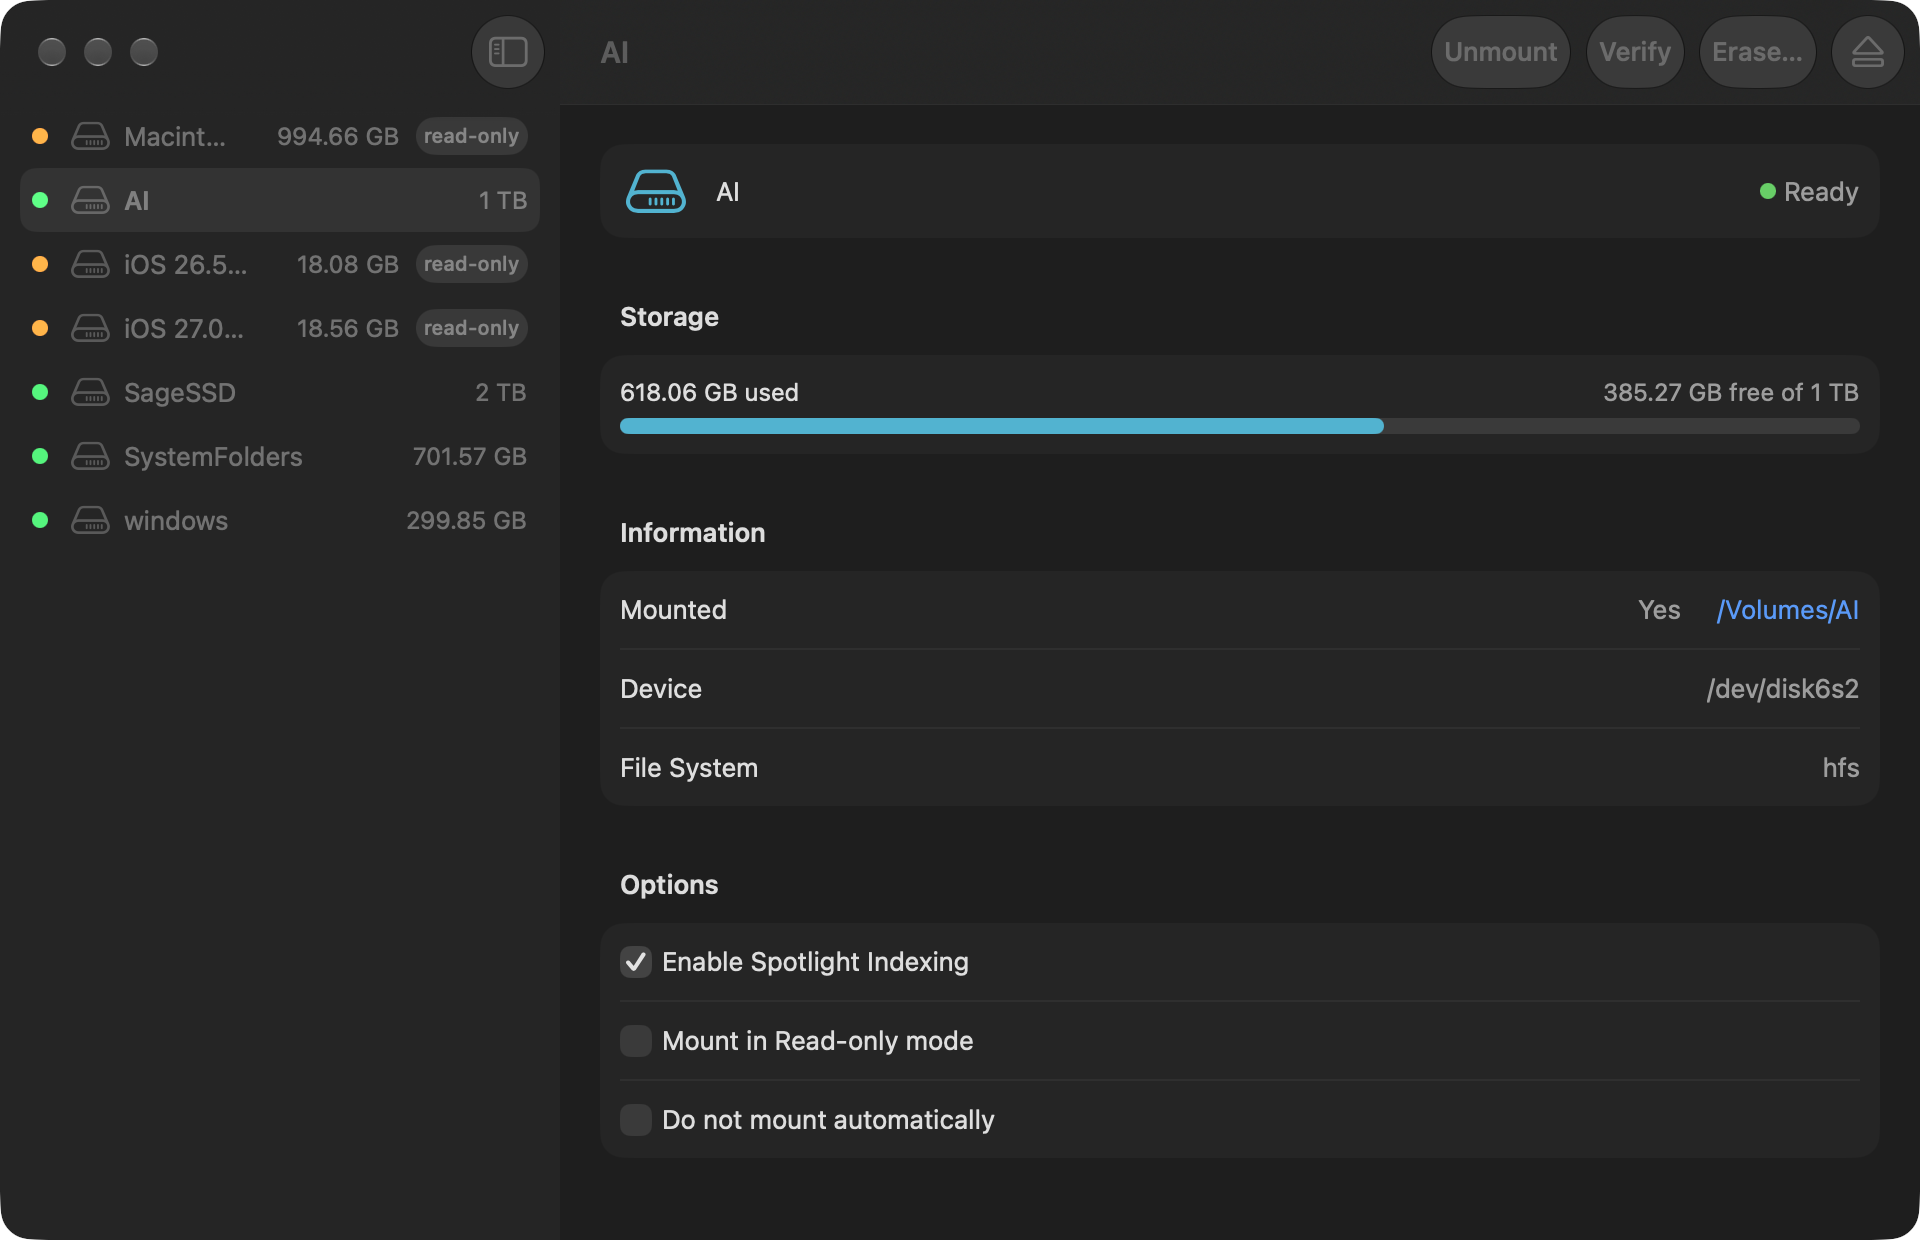
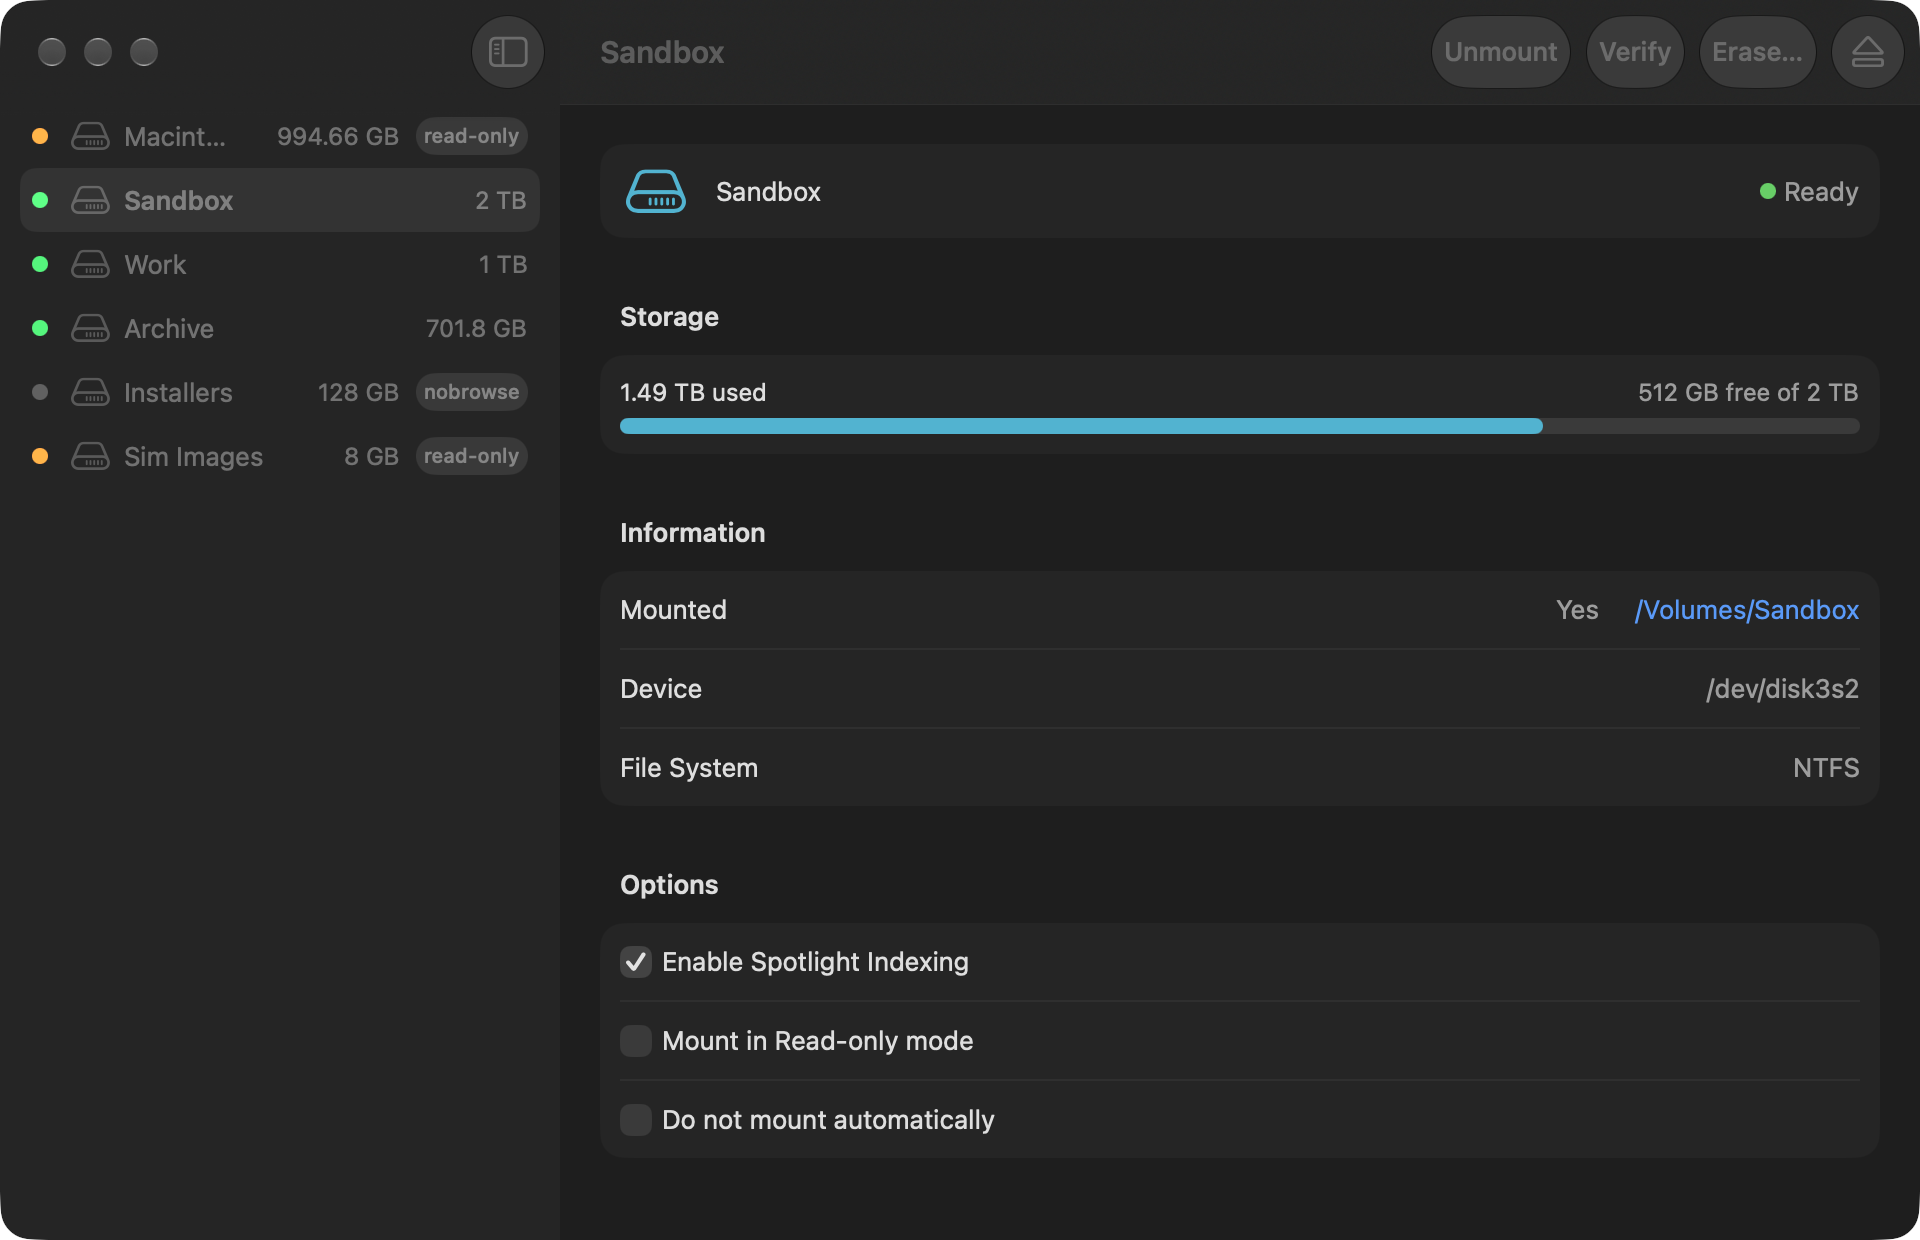
Snapshot mode renders a synthetic volume fixture — no real names, sizes or devices in screenshots; regenerated docs/shots from the fixture

diff --git a/Sources/NTFSSilicon/Snapshot.swift b/Sources/NTFSSilicon/Snapshot.swift
@@ -1,5 +1,6 @@
 import AppKit
 import IOKit.pwr_mgt
+import NTFSSiliconKit
 import SwiftUI
 
 /// Screenshot mode for agents.
@@ -8,6 +9,37 @@ import SwiftUI
 /// tab, plus <page>-<mode>-layout.json grid probes, then quits.
 /// APP_SNAPSHOT_PAGES=limits,to,these (default all). APP_ACCENT switches accent.
 enum Snapshot {
+    /// Six stand-in volumes spanning the states the UI must render: boot
+    /// (read-only), mounted NTFS with the detail shown, mounted APFS,
+    /// mounted HFS+ with per-volume prefs defaults, unmounted, read-only
+    /// media. Only synthetic data ever reaches a screenshot.
+    static let fixtureVolumes: [VolumeInfo] = [
+        VolumeInfo(device: "disk0s1", name: "Macintosh HD", mountPoint: "/",
+                   filesystem: "APFS", totalBytes: 994_663_587_840, freeBytes: 41_000_000_000,
+                   uuid: "0000-BOOT-0000", isReadOnly: true, isHidden: false, isBoot: true,
+                   wholeDisk: "disk0"),
+        VolumeInfo(device: "disk3s2", name: "Sandbox", mountPoint: "/Volumes/Sandbox",
+                   filesystem: "NTFS", totalBytes: 2_000_247_524_352, freeBytes: 512_000_000_000,
+                   uuid: "0000-SNDB-0000", isReadOnly: false, isHidden: false, isBoot: false,
+                   wholeDisk: "disk3"),
+        VolumeInfo(device: "disk1s1", name: "Work", mountPoint: "/Volumes/Work",
+                   filesystem: "APFS", totalBytes: 1_000_000_000_000, freeBytes: 250_000_000_000,
+                   uuid: "0000-WRK0-0000", isReadOnly: false, isHidden: false, isBoot: false,
+                   wholeDisk: "disk1"),
+        VolumeInfo(device: "disk2s2", name: "Archive", mountPoint: "/Volumes/Archive",
+                   filesystem: "Mac OS Extended (Journaled)", totalBytes: 701_800_000_000,
+                   freeBytes: 700_100_000_000, uuid: "0000-ARCH-0000", isReadOnly: false,
+                   isHidden: false, isBoot: false, wholeDisk: "disk2"),
+        VolumeInfo(device: "disk4s1", name: "Installers", mountPoint: nil,
+                   filesystem: "exFAT", totalBytes: 128_000_000_000, freeBytes: nil,
+                   uuid: "0000-INST-0000", isReadOnly: false, isHidden: true, isBoot: false,
+                   wholeDisk: "disk4"),
+        VolumeInfo(device: "disk5s1", name: "Sim Images", mountPoint: "/Volumes/Sim Images",
+                   filesystem: "ISO 9660", totalBytes: 8_000_000_000, freeBytes: 0,
+                   uuid: nil, isReadOnly: true, isHidden: true, isBoot: false,
+                   wholeDisk: "disk5"),
+    ]
+
     static func runIfRequested(model: AppModel, openSettings: OpenSettingsAction) {
         let env = ProcessInfo.processInfo.environment
         guard let dir = env["APP_SNAPSHOT"], !dir.isEmpty else { return }
@@ -29,7 +61,10 @@ enum Snapshot {
             try? FileManager.default.createDirectory(atPath: dir, withIntermediateDirectories: true)
             try? await Task.sleep(for: .seconds(1.5))
             await model.refresh()
-            // Select a non-boot volume when one exists, so the detail pane is dark-navy interesting.
+            // Privacy: publish no real volume names, sizes or devices —
+            // rendering uses a fixed fixture from here on.
+            model.volumes = Self.fixtureVolumes
+            // Select a non-boot volume, so the detail pane is interesting.
             if let detail = model.volumes.first(where: { !$0.isBoot }) { model.selection = detail.device }
             for mode in ["light", "dark"] {
                 NSApp.appearance = NSAppearance(named: mode == "light" ? .aqua : .darkAqua)
